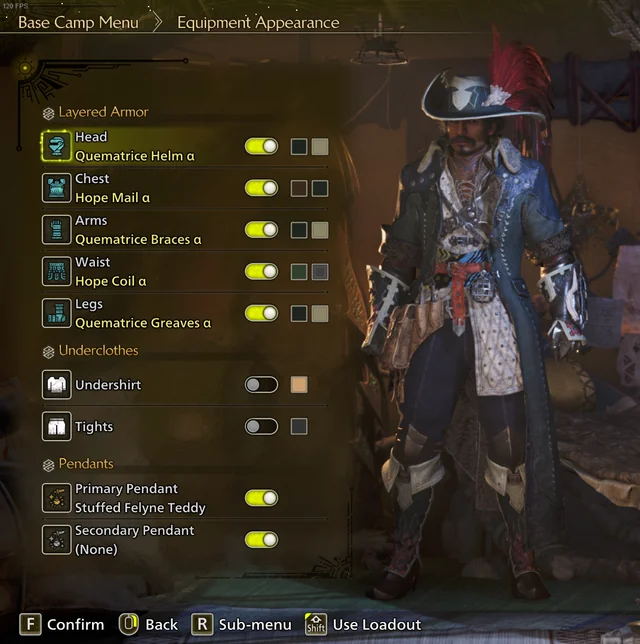
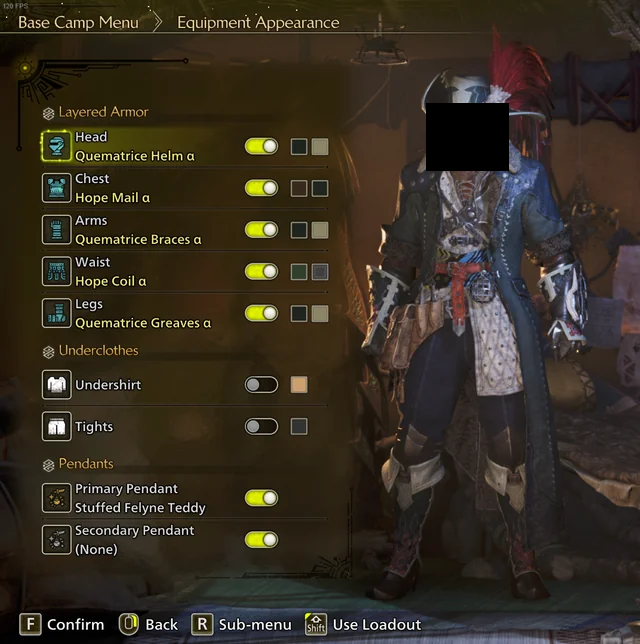
jsonc to jsonl and blacked out faces

Changed region(s): [[0.6562, 0.1553, 0.8125, 0.2795]]

diff --git a/jsonc-to-jsonl.py b/jsonc-to-jsonl.py
@@ -1,0 +1,40 @@
+import json
+import json5 as jsonc
+import os
+
+# Input and output file paths
+input_file_path = os.path.join(os.path.dirname(__file__), 'training-data.jsonc')  # Change to your JSONC file
+output_file_path = os.path.join(os.path.dirname(__file__), 'output.jsonl')
+
+# Read and parse JSONC file
+try:
+    with open(input_file_path, 'r', encoding='utf8') as file:
+        raw_content = file.read()
+except FileNotFoundError:
+    print(f"Error: The input file '{input_file_path}' does not exist.")
+    exit(1)
+
+# Parse the JSONC content
+try:
+    data_array = jsonc.loads(raw_content)
+except json.JSONDecodeError as e:
+    print(f"Error parsing JSONC content: {e}")
+    exit(1)
+
+# Convert array to JSONL format
+jsonl_content = ""
+
+# Loop through the parsed data
+for obj in data_array:
+    obj['messages'][2]['content']  = json.dumps(obj['messages'][2]['content'])
+    # Append the object to the JSONL content (as a JSON object, including the stringified 'content' for assistant)
+    jsonl_content += json.dumps(obj) + "\n"
+
+# Write to output JSONL file
+try:
+    with open(output_file_path, 'w', encoding='utf8') as file:
+        file.write(jsonl_content)
+    print(f"Converted JSONC to JSONL: {output_file_path}")
+except Exception as e:
+    print(f"Error writing to output file: {e}")
+    exit(1)
